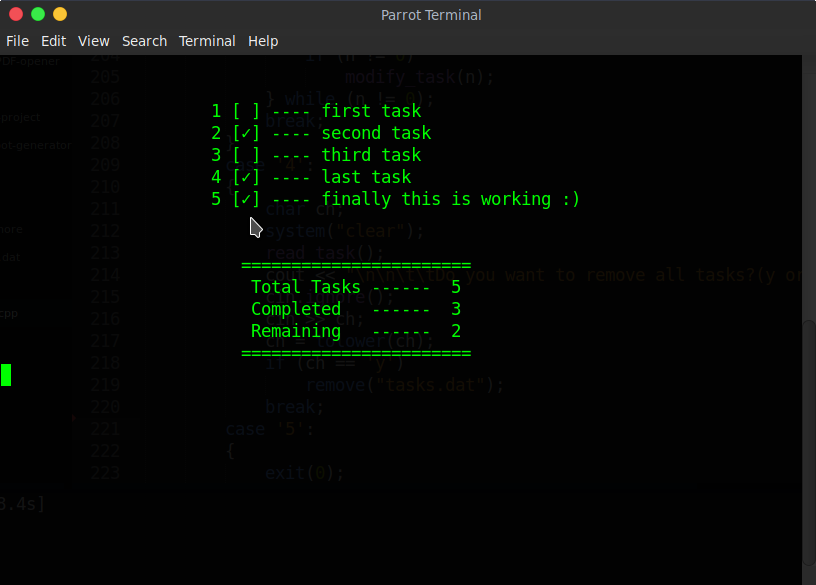
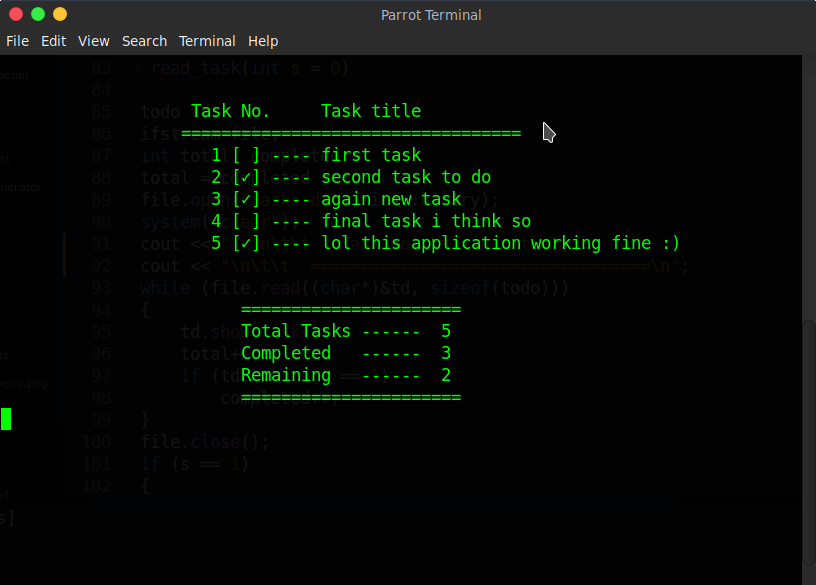
added : remove completed task

Changed region(s): [[0.2145, 0.1846, 0.7966, 0.7077], [0.0, 0.6154, 0.0306, 0.7385]]

diff --git a/todo.cpp b/todo.cpp
@@ -183,14 +183,23 @@ void remove_task(int n)
 	}
 	ifile.seekg(0, ios::beg);
 	if (flag == 0)
-		while (ifile.read((char*)&td, sizeof(todo)))
-		{
-			if (td.Rtask_no() != n)
-			{
-				ofile.write((char*)&td, sizeof(todo));
-				flag = 1;
+		if (n == -1)
+			while (ifile.read((char*)&td, sizeof(todo)))
+			{	if (td.Rcheck() == -1)
+				{
+					ofile.write((char*)&td, sizeof(todo));
+					flag = 1;
+				}
 			}
-		}
+		else
+			while (ifile.read((char*)&td, sizeof(todo)))
+			{
+				if (td.Rtask_no() != n)
+				{
+					ofile.write((char*)&td, sizeof(todo));
+					flag = 1;
+				}
+			}
 	ifile.close();
 	ofile.close();
 	remove("tasks.dat");
@@ -249,9 +258,9 @@ int main()
 				read_task();
 				cout << "\n\n\t\t\t[✓] ---- Completed";
 				cout << "\n\t\t\t[ ] ---- Not Completed";
-				cout << "\n\n\tEnter task number to check/uncheck task ( 0 for exit): ";
+				cout << "\n\n\tEnter [Task No.] to check/uncheck task ( 0 for exit): ";
 				cin >> n;
-				if (n != 0)
+				if (n > 0)
 					modify_task(n);
 			} while (n != 0);
 			break;
@@ -264,20 +273,21 @@ int main()
 			{
 				system("clear");
 				read_task();
-				cout << "\n\n\t\t\t-1 ---- Remove All";
+				cout << "\n\n\t\t\t-1 ---- Remove completed tasks";
+				cout << "\n\t\t\t-2 ---- Remove all tasks";
 				cout << "\n\t\t\t 0 ---- Exit";
-				cout << "\n\n\t\tEnter task number to remove tasks : ";
+				cout << "\n\n\t\tEnter [Task No.] to remove tasks : ";
 				cin >> n;
-				if (n > 0)
+				if (n > 0 || n == -1)
 					remove_task(n);
-				else if (n == -1)
+				else if (n == -2)
 					remove("tasks.dat");
 				else if (n == 0)
 					break;
 				else
 					cout << "\n\n\t\t\t!!!!! Invalid input !!!!!";
 
-			} while (n != -1);
+			} while (n != -2);
 			break;
 		}
 		case '5':
